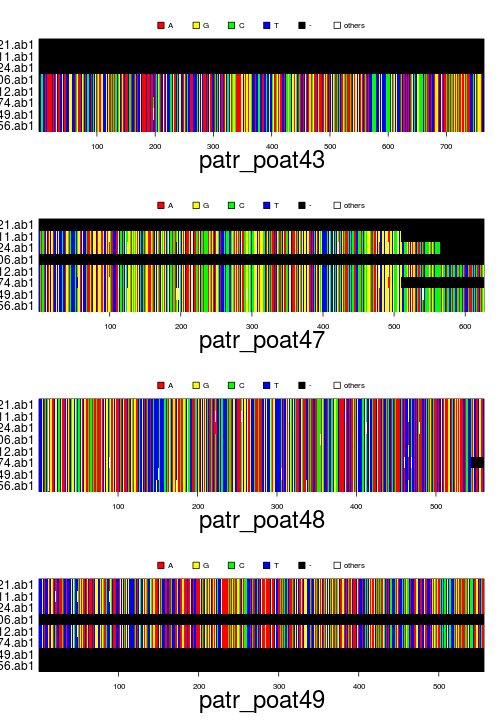
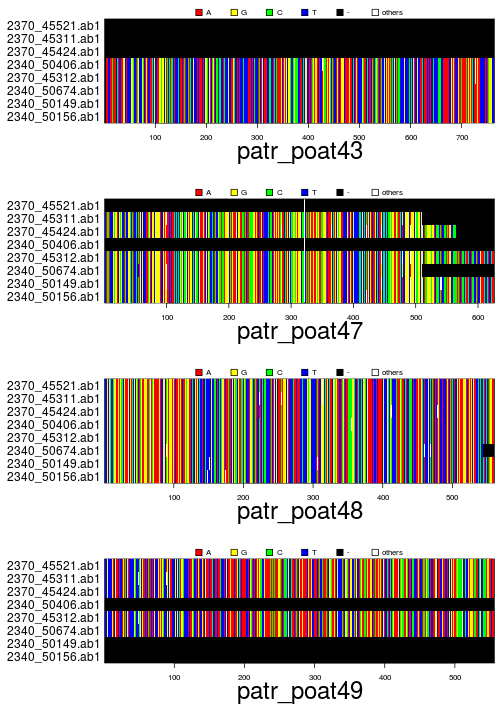
fixed image sizes

diff --git a/README.md b/README.md
@@ -82,7 +82,7 @@ x
 ```
 
 ```r
-par(mfrow=c(3,1))
+par(mfrow=c(3,1), mar=c(6,6,2,1))
 image(woodmouse)
 image(x@dna[[1]])
 image(x@dna[[2]])
@@ -130,6 +130,7 @@ x
 ```
 
 ```r
+par(mar=c(6,6,2,1))
 plot(x)
 ```
 
@@ -205,6 +206,7 @@ x
 ```
 
 ```r
+par(mar=c(6,11,2,1))
 plot(x)
 ```
 
@@ -214,7 +216,7 @@ plot(x)
 
 #### Data handling
 See the functions:
-* **concatenate:** concatenate seeral genes into a single DNAbin matrix 
+* **concatenate:** concatenate seeral genes into a single DNAbin matrix
 * **x[i,j]:** subset x by individuals (i) and/or genes (j)
 
 Example code:
@@ -292,6 +294,7 @@ x
 ```
 
 ```r
+par(mar=c(6,11,2,1))
 plot(x)
 ```
 
@@ -323,6 +326,7 @@ y
 ```
 
 ```r
+par(mar=c(5,8,2,1))
 image(y)
 ```
 
